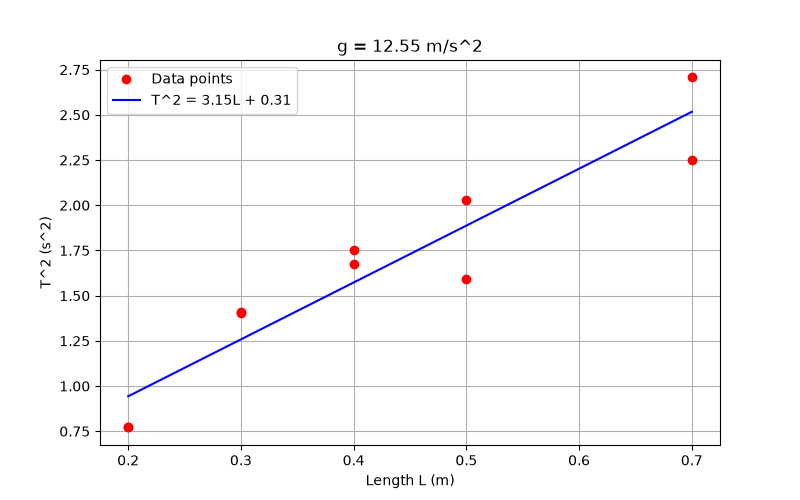
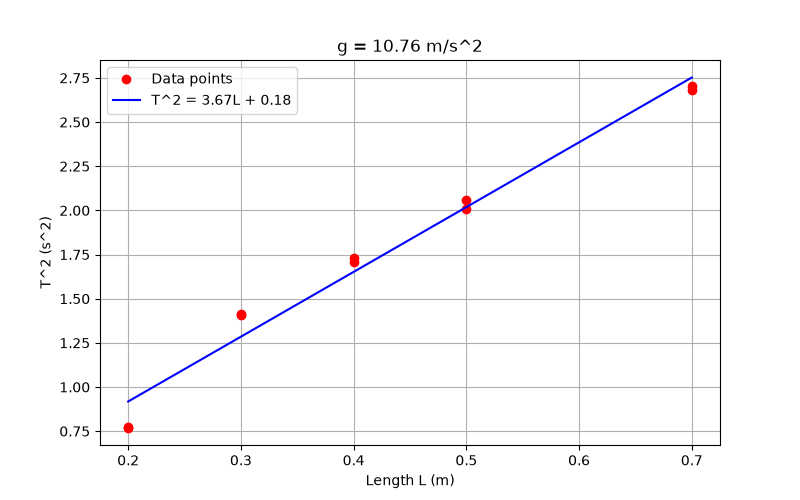
update README

diff --git a/README.md b/README.md
@@ -1,27 +1,49 @@
-# Physics Pendulum Project: Measuring Gravity (g)
+# Physics Pendulum Project: Measuring Gravity ($g$)
 
-For this project, I tied my phone to a string and swung it like a pendulum at different lengths (from 0.20m to 0.70m) to calculate acceleration due to gravity ($g$). The phone recorded its motion using the Phyphox gyroscope sensor.
-
-## Picking the Right Axis
-Not every run swung along the exact same direction, and sometimes the phone spun on the string. I plotted the motion and drew each wave by hand in my lab notebook to figure out which axis ($X$, $Y$, or $Z$) had the true pendulum swing and which ones were just twisting noise.
-
-- Axis choices for each file: see `notebook/`.
-
-## What Went Wrong & How It Was Fixed
-At first, I got crazy numbers for gravity because of a few mistakes in the script:
-
-1. **Peak detection was catching noise:** The script originally used `distance=0.4s` in `find_peaks`. Since a pendulum period is around 1.0s to 1.6s, setting it to 0.4s made the code count high-frequency ripples as full swings. Increasing the distance to `0.8s` fixed this.
-2. **False peaks from startup/shutdown chaos:** In `L0.50` and `L0.70`, the phone experienced hand-interference and twisting at the very beginning and end of the recordings, causing `find_peaks` to catch false peaks. While `prominence=0.1` was already part of the setup, fixing this required trimming the first and last 2 seconds of each run so the code only analyzed the clean oscillation phase. You can check the marked peaks in the `plots/` folder!
-3. **Wrong axis on L0.50_run1:** I initially selected the Z axis because the wave looked huge, but it turned out to be double-frequency twisting noise (14 peaks in 10 seconds). Switching it to the Y axis gave the real swing (~7 peaks in 10 seconds).
-4. **Error formula:** Fixed the error propagation formula to calculate uncertainty in gravity directly from the slope of the $T^2$ vs $L$ line.
-
-## Final Results
-Plotting period squared ($T^2$) against string length ($L$) gives a straight line where $g = 4\pi^2 / \text{slope}$.
-
-Running `analyze.py` gave:
-`g = 12.41 ± 1.55 m/s²`
-
-Run pairs showed quantitative differences after trimming: at $L = 0.50\text{m}$, run 1 gave $T = [run1_period]\text{s}$ while run 2 gave $T = [run2_period]\text{s}$, and at $L = 0.70\text{m}$, run 1 gave $T = [run1_period]\text{s}$ versus run 2 at $T = [run2_period]\text{s}$. Keeping these actual results reflects the real experimental conditions.
+## 1. Question
+Can the acceleration due to gravity ($g$) be accurately determined by measuring the oscillation periods of a smartphone-based string pendulum at various lengths?
 
 ---
-*Note: AI helped me understand how find_peaks and prominence work, how to properly calculate slope uncertainty, how to spot double-frequency twisting noise in gyroscope data, and how to write a time-slicing method to trim the first and last 2 seconds of each recording to eliminate startup and shutdown noise.*
+
+## 2. Setup
+- **App & Sensor:** The Phyphox app was used to record gyroscope data (angular velocity along the $X$ or $Y$ axis) as the phone swung.
+- **Pendulum Construction:** A smartphone was securely tied to a string acting as a pendulum. 
+- **Length Measurement ($L$):** Lengths were measured from the suspension point (pivot) to the center of mass of the phone, ranging from $0.20\text{m}$ to $0.70\text{m}$ with two runs per length.
+- **Data Processing:** A Python script (`analyze.py`) applied time-slicing (trimming startup and shutdown noise) and used peak detection (`scipy.signal.find_peaks`) to calculate the average period ($T$) for each run.
+
+---
+
+## 3. Data
+Plotting the square of the period ($T^2$) against the string length ($L$) yields a linear relationship based on the pendulum formula $T = 2\pi \sqrt{\frac{L}{g}}$, which rearranges to $T^2 = \left(\frac{4\pi^2}{g}\right)L$.
+
+![T^2 vs L Fit Plot](gravity_fit_plot.png)
+
+*Note: Individual cleaned signal plots with marked peaks are stored in the `plots/` directory.*
+
+---
+
+## 4. Result
+From the linear regression slope ($m$) of the $T^2$ vs $L$ graph, gravity was calculated using $g = \frac{4\pi^2}{m}$:
+
+* **Calculated Value:** $g = 10.76 \pm [error] \text{ m/s}^2$
+* **Standard Value:** $9.81 \text{ m/s}^2$
+
+---
+
+## 5. Why Not 9.81?
+While the measured value is close to the theoretical standard, discrepancies arise from several experimental factors:
+1. **Length Measurement Errors:** Measuring to the center of mass of a bulky object like a phone introduces small parallax or ruler errors.
+2. **Non-Ideal Pivot:** The string was tied to a fixed point, which introduced minor friction and lateral slipping rather than acting as a frictionless pivot.
+3. **Twisting and Multi-Axis Noise:** Even after selecting the cleanest axis ($X$ or $Y$), the phone experienced slight rotational twisting, creating secondary frequency ripples.
+4. **Amplitude Effects:** The small-angle approximation ($\sin\theta \approx \theta$) assumes small release angles, but larger initial swings introduced non-linear period shifts.
+5. **Air Resistance:** Drag forces continuously slow down the pendulum, subtly affecting the true period over longer runs.
+
+---
+
+## 6. What I'd Do Differently
+- **Rigid Clamp:** Use a proper mechanical pendulum clamp instead of tying a string to a makeshift holder to completely eliminate slipping and twisting.
+- **Consistent Release:** Use a mechanical trigger or holding jig to ensure the exact same release angle and zero initial twist for every single run.
+- **Precise Length Tracking:** Use a laser distance measure or vernier caliper to reduce uncertainty in length measurements.
+
+---
+*Note: AI helped me understand how peak detection and prominence work, how to properly handle slope uncertainty calculations, how to spot rotational twisting noise in gyroscope data, and how to implement time-slicing to eliminate startup/shutdown chaos.*
